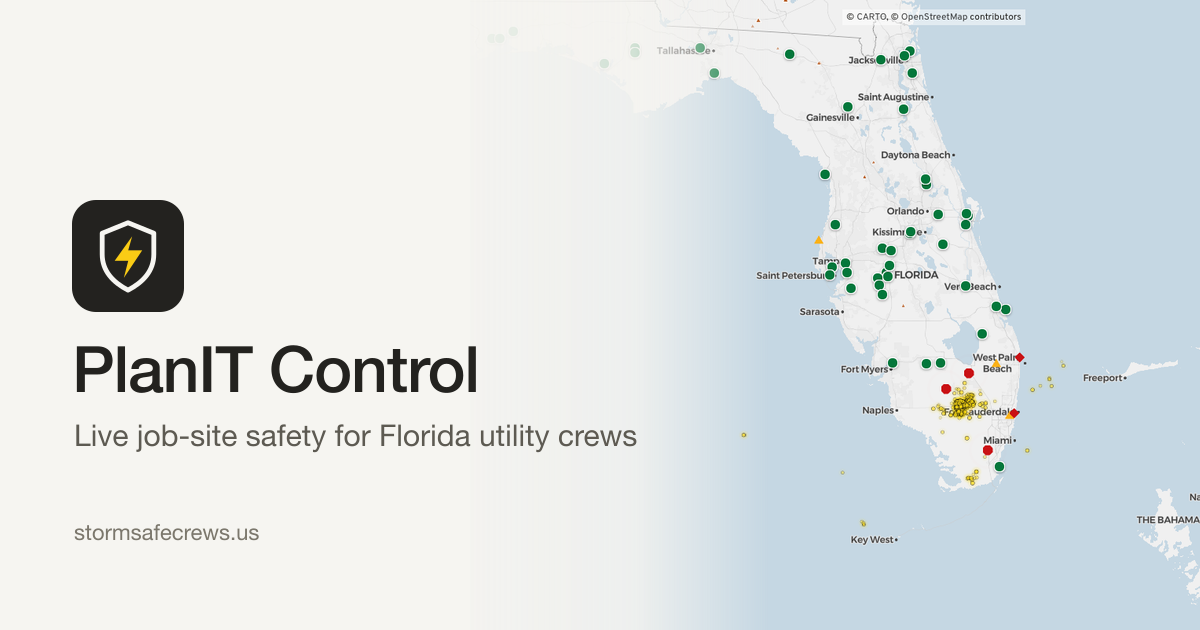
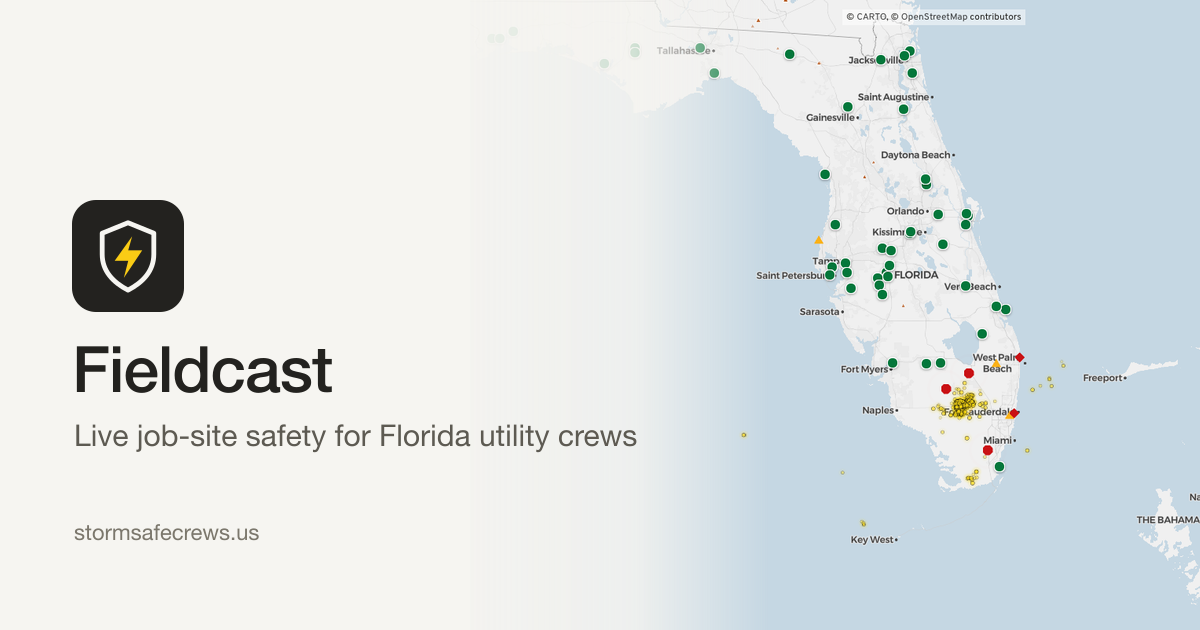
Rename the visible product name to Fieldcast (frontend only), with a PlanIT Control challenge credit
- APP_NAME is Fieldcast: page titles, Open Graph/Twitter, manifest name and
  short_name, apple web app title, top-bar wordmark, About, How it works,
  the not-found page.
- New APP_CREDIT line in a small site footer and under How it works' intro:
  "Built for Sperry Tech's PlanIT Control challenge at SwampHacks XII."
- Social preview card redrawn with the new name; the icon script's card
  text updated to match. App icons have no text and are unchanged.
- Code identifiers, storage keys, package name, API and push text unchanged.

Changed region(s): [[0.0617, 0.5429, 0.4008, 0.6333]]

diff --git a/frontend/app/how-it-works/page.tsx b/frontend/app/how-it-works/page.tsx
@@ -3,7 +3,7 @@ import type { ReactNode } from "react";
 import type { HazardIndex } from "@shared/types";
 import ModelExplanation from "@/components/ModelExplanation";
 import { getModelInfo, orNull } from "@/lib/api";
-import { pageMetadata } from "@/lib/metadata";
+import { APP_CREDIT, pageMetadata } from "@/lib/metadata";
 import { riskLevel } from "@/lib/risk";
 
 // "How it works" for judges and supervisors. Every fact here was checked against the backend
@@ -92,7 +92,8 @@ export default async function HowItWorksPage() {
     <main className="mx-auto flex max-w-4xl flex-col gap-6 px-4 pbs-8 pbe-12 sm:px-6 [&_strong]:font-semibold">
       <header className="flex flex-col gap-2">
         <h1 className="text-[2rem] font-semibold leading-tight tracking-[-0.015em] text-balance">How 9 data sources become one safety call per site</h1>
-        <p className="max-w-[68ch] text-muted">PlanIT Control pulls live hazard data for 55 real Florida power plants, stops work when lightning gets close, and tells supervisors each evening whether tomorrow is go, caution or no-go.</p>
+        <p className="max-w-[68ch] text-muted">Fieldcast pulls live hazard data for 55 real Florida power plants, stops work when lightning gets close, and tells supervisors each evening whether tomorrow is go, caution or no-go.</p>
+        <p className="text-xs text-muted">{APP_CREDIT}</p>
       </header>
 
       <aside aria-labelledby="sixty-title" className="pc-panel flex flex-col gap-4 p-6 sm:p-8">
@@ -116,14 +117,14 @@ export default async function HowItWorksPage() {
 
       <Section id="problem" title="The problem" takeaway="Hazard data is scattered across agencies, so go/no-go calls get made on instinct.">
         <p>A utility foreman deciding whether a crew should set up a bucket truck tomorrow would need to check a weather app, NWS alerts, a lightning map, FEMA flood maps, fire satellites and whatever the last crew said. Nobody has time for that at 6 AM, so the call is often a gut feeling.</p>
-        <div role="img" aria-label="Before: six separate sources lead to a gut call. With PlanIT: the same sources feed one score per site and a go, caution or no-go briefing." className="space-y-3">
+        <div role="img" aria-label="Before: six separate sources lead to a gut call. With Fieldcast: the same sources feed one score per site and a go, caution or no-go briefing." className="space-y-3">
           <div className="flex flex-col gap-2 sm:flex-row">
             <Box title="Before" tone="muted">Weather app, NWS, lightning map, FEMA, fire satellites, crew texts</Box>
             <Arrow />
             <Box title="Gut call" tone="muted">Different every foreman, every day</Box>
           </div>
           <div className="flex flex-col gap-2 sm:flex-row">
-            <Box title="With PlanIT">The same sources, checked automatically for every site</Box>
+            <Box title="With Fieldcast">The same sources, checked automatically for every site</Box>
             <Arrow />
             <Box title="One score and rules">0–10 hazard index and lightning stop-work</Box>
             <Arrow />

diff --git a/frontend/components/TopNavigation.tsx b/frontend/components/TopNavigation.tsx
@@ -5,6 +5,7 @@ import { usePathname } from "next/navigation";
 import { useEffect, useRef, useState } from "react";
 import { useAlertsState } from "@/components/AlertsProvider";
 import { countAlerts, realAlerts } from "@/lib/alerts";
+import { APP_NAME } from "@/lib/metadata";
 
 const LINKS = [
   { href: "/", label: "Dashboard" },
@@ -60,9 +61,9 @@ export default function TopNavigation() {
   return (
     <nav ref={nav} aria-label="Main navigation" className="sticky inset-bs-0 z-50 h-[calc(var(--pc-nav-height)+env(safe-area-inset-top,0px))] border-be border-border bg-surface pbs-[env(safe-area-inset-top,0px)] text-text">
       <div className="flex h-full items-center gap-3 px-3 sm:px-4">
-        <Link href="/" className="flex min-h-12 shrink-0 items-center gap-2.5 focus-visible:outline-2 focus-visible:outline-offset-2" aria-label="PlanIT Control dashboard">
+        <Link href="/" className="flex min-h-12 shrink-0 items-center gap-2.5 focus-visible:outline-2 focus-visible:outline-offset-2" aria-label={`${APP_NAME} dashboard`}>
           <img src="/icon.svg" width={30} height={30} alt="" className="shrink-0" />
-          <span className="text-base font-semibold tracking-[-0.01em]">PlanIT<span className="hidden font-normal text-muted sm:inline"> Control</span></span>
+          <span className="text-base font-semibold tracking-[-0.01em]">{APP_NAME}</span>
         </Link>
         <div className="ms-auto hidden items-center gap-0.5 xl:flex">
           {LINKS.filter((link) => link.href !== "/alerts").map((link) => <Link key={link.href} href={link.href} aria-current={pathname === link.href ? "page" : undefined} className={linkStyle(link.href)}>{link.label}</Link>)}

diff --git a/frontend/lib/metadata.ts b/frontend/lib/metadata.ts
@@ -1,12 +1,14 @@
 import type { Metadata } from "next";
 
-export const APP_NAME = "PlanIT Control";
+export const APP_NAME = "Fieldcast";
+/** Shown in the footer and on How it works: the challenge this was built for. */
+export const APP_CREDIT = "Built for Sperry Tech's PlanIT Control challenge at SwampHacks XII.";
 /** The one line on the social card and the homepage's link preview. */
 export const APP_TAGLINE = "Live job-site safety for Florida utility crews";
 export const APP_DESCRIPTION = "Job-site safety for utility field crews: lightning stop-work alerts, site conditions, hazard reports, and next-day briefings.";
 
-/** Page title "<Page> · PlanIT Control" and its link preview. `social` overrides what a shared link's
- *  card says (the homepage card reads "PlanIT Control" and the tagline, not "Dashboard"). */
+/** Page title "<Page> · Fieldcast" and its link preview. `social` overrides what a shared link's
+ *  card says (the homepage card reads "Fieldcast" and the tagline, not "Dashboard"). */
 export function pageMetadata(title: string, description: string, social?: { title: string; description: string }): Metadata {
   const fullTitle = title === APP_NAME ? APP_NAME : `${title} · ${APP_NAME}`;
   const card = social ?? { title: fullTitle, description };

diff --git a/frontend/app/layout.tsx b/frontend/app/layout.tsx
@@ -2,7 +2,7 @@ import type { Metadata, Viewport } from "next";
 import { Overpass, Overpass_Mono } from "next/font/google";
 import { headers } from "next/headers";
 import { APP_COLORS } from "@/lib/branding";
-import { APP_DESCRIPTION, APP_NAME, APP_TAGLINE, pageMetadata } from "@/lib/metadata";
+import { APP_CREDIT, APP_DESCRIPTION, APP_NAME, APP_TAGLINE, pageMetadata } from "@/lib/metadata";
 import { AlertsProvider } from "@/components/AlertsProvider";
 import { ViewModeProvider } from "@/components/ViewModeProvider";
 import { PushProvider } from "@/components/PushProvider";
@@ -56,6 +56,7 @@ export default async function RootLayout({ children }: { children: React.ReactNo
             <PushProvider>
               <TopNavigation />
               <OutageShell>{children}</OutageShell>
+              <footer className="border-bs border-border px-4 py-5 text-xs text-muted sm:px-6">{APP_NAME} · {APP_CREDIT}</footer>
             </PushProvider>
           </ViewModeProvider>
         </AlertsProvider>

diff --git a/frontend/app/about/page.tsx b/frontend/app/about/page.tsx
@@ -1,12 +1,12 @@
 import Link from "next/link";
 import { pageMetadata } from "@/lib/metadata";
 
-export const metadata = pageMetadata("About", "About PlanIT Control and adding the field safety app to your phone’s home screen.");
+export const metadata = pageMetadata("About", "About Fieldcast and adding the field safety app to your phone’s home screen.");
 
 export default function AboutPage() {
   return <main className="mx-auto flex max-w-2xl flex-col gap-6 px-4 pbs-8 pbe-12 sm:px-6">
     <header className="flex flex-col gap-2">
-      <h1 className="text-[2rem] font-semibold leading-tight tracking-[-0.015em]">About PlanIT Control</h1>
+      <h1 className="text-[2rem] font-semibold leading-tight tracking-[-0.015em]">About Fieldcast</h1>
       <p className="text-muted">Built for the Sperry Tech challenge at SwampHacks XII.</p>
     </header>
     <section className="pc-panel flex flex-col items-start gap-4 p-6 max-sm:p-5">

diff --git a/frontend/app/not-found.tsx b/frontend/app/not-found.tsx
@@ -1,7 +1,7 @@
 import Link from "next/link";
 import { pageMetadata } from "@/lib/metadata";
 
-export const metadata = pageMetadata("Page not found", "This page is unavailable. Return to the PlanIT Control crew view or dashboard.");
+export const metadata = pageMetadata("Page not found", "This page is unavailable. Return to the Fieldcast crew view or dashboard.");
 
 export default function NotFound() {
   return <main className="mx-auto grid min-h-[calc(100svh-var(--pc-nav-height)-8rem)] max-w-xl place-content-center gap-6 px-4 py-12 text-center">

diff --git a/frontend/app/manifest.ts b/frontend/app/manifest.ts
@@ -4,7 +4,7 @@ import { APP_DESCRIPTION, APP_NAME } from "@/lib/metadata";
 
 export default function manifest(): MetadataRoute.Manifest {
   return {
-    id: "/", name: APP_NAME, short_name: "PlanIT", description: APP_DESCRIPTION,
+    id: "/", name: APP_NAME, short_name: APP_NAME, description: APP_DESCRIPTION,
     lang: "en-US", start_url: "/crew", scope: "/", display: "standalone",
     background_color: APP_COLORS.background, theme_color: APP_COLORS.theme,
     icons: [
